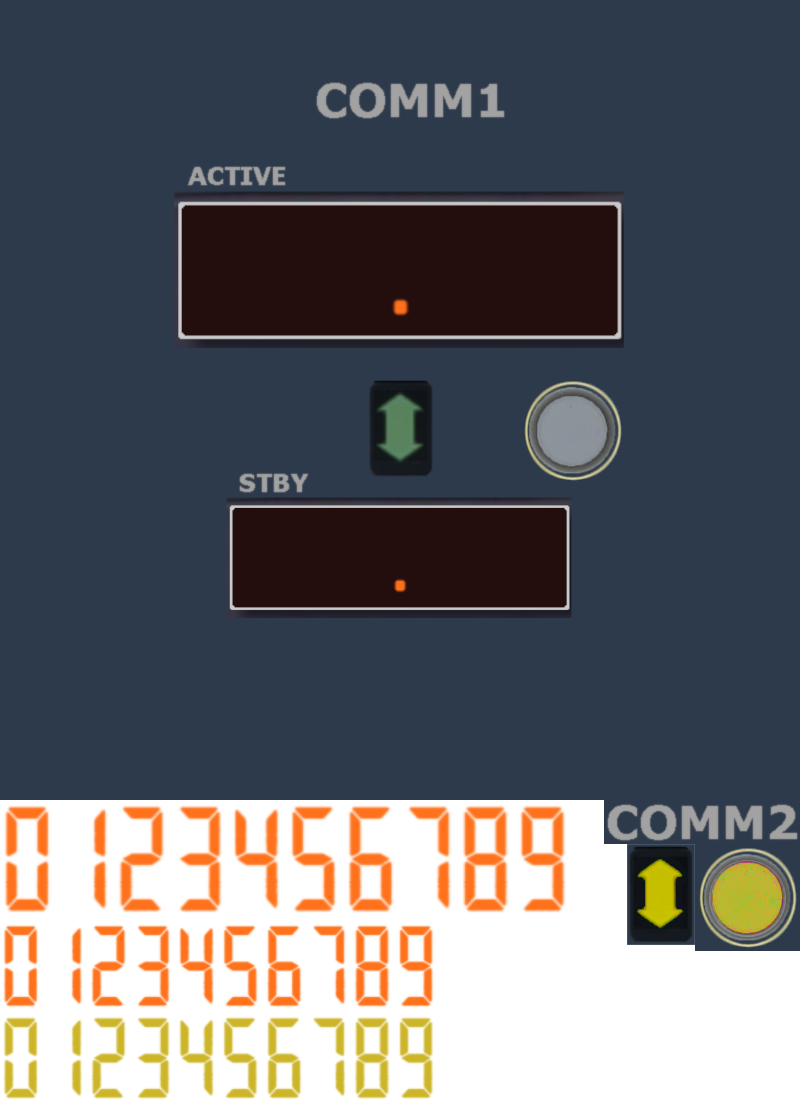
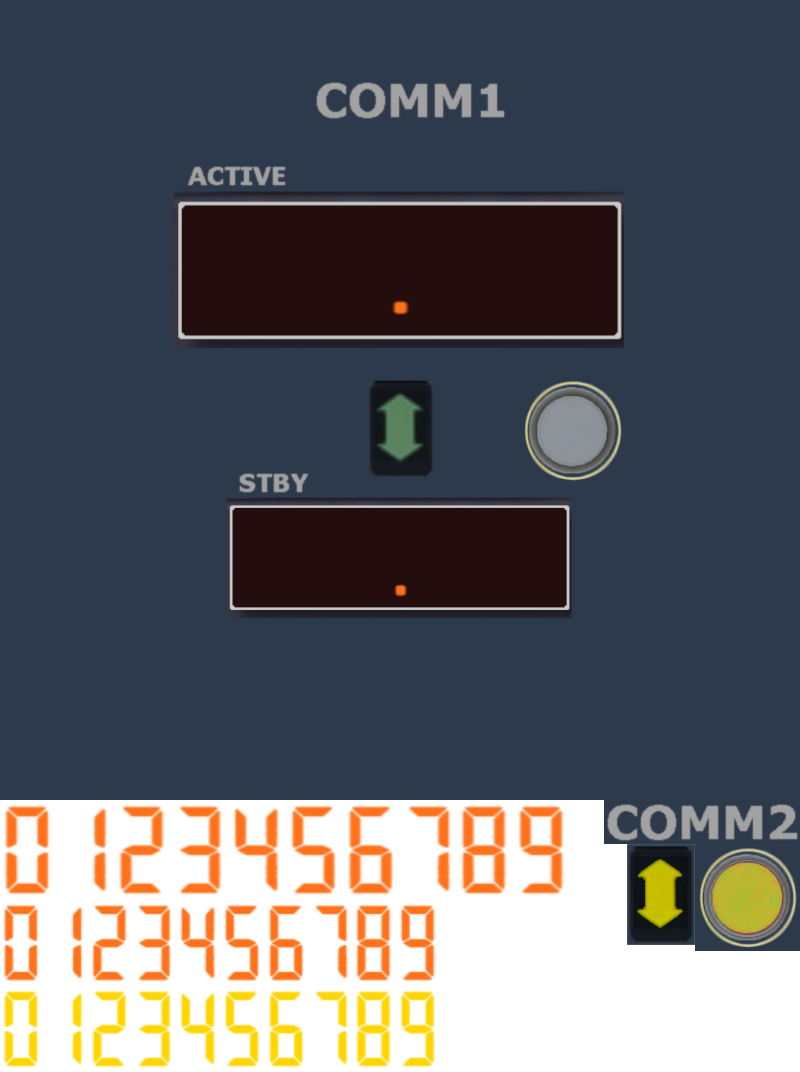
wip

diff --git a/instrument-panel/instruments/radCom.cpp b/instrument-panel/instruments/radCom.cpp
@@ -47,21 +47,21 @@ void radCom::resize()
     addBitmap(bmp);
 
     // 3 = Digits 1
-    bmp = al_create_bitmap(570, 120);
+    bmp = al_create_bitmap(570, 100);
     al_set_target_bitmap(bmp);
-    al_draw_scaled_bitmap(orig, 0, 800, 570, 120, 0, 0, 570, 102, 0);
+    al_draw_scaled_bitmap(orig, 0, 800, 570, 100, 0, 0, 570, 100, 0);
     addBitmap(bmp);
 
     // 4 = Digits 2
-    bmp = al_create_bitmap(440, 92);
+    bmp = al_create_bitmap(440, 86);
     al_set_target_bitmap(bmp);
-    al_draw_scaled_bitmap(orig, 0, 920, 440, 92, 0, 0, 440, 78, 0);
+    al_draw_scaled_bitmap(orig, 0, 900, 440, 86, 0, 0, 440, 86, 0);
     addBitmap(bmp);
 
     // 5 = Digits 2 selected
-    bmp = al_create_bitmap(440, 92);
+    bmp = al_create_bitmap(440, 86);
     al_set_target_bitmap(bmp);
-    al_draw_scaled_bitmap(orig, 0, 1012, 440, 92, 0, 0, 440, 78, 0);
+    al_draw_scaled_bitmap(orig, 0, 986, 440, 86, 0, 0, 440, 86, 0);
     addBitmap(bmp);
 
     // 6 = Comm2
@@ -120,7 +120,7 @@ void radCom::render()
 
     // Add frequencies
     addFreq3dp(comFreq, 215, 220, true);
-    addFreq3dp(comStandby, 257, 519, false);
+    addFreq3dp(comStandby, 257, 515, false);
 
     // Position dest bitmap on screen
     al_set_target_backbuffer(globals.display);
@@ -153,13 +153,13 @@ void radCom::addFreq3dp(int freq, int x, int y, bool isLarge)
 
     if (isLarge) {
         wide = 57;
-        tall = 102;
+        tall = 100;
         postDot = x + wide * 3 + 30;
         bmp = 3;
     }
     else {
         wide = 44;
-        tall = 78;
+        tall = 86;
         postDot = x + wide * 3 + 23;
         bmp = 4;
     }
